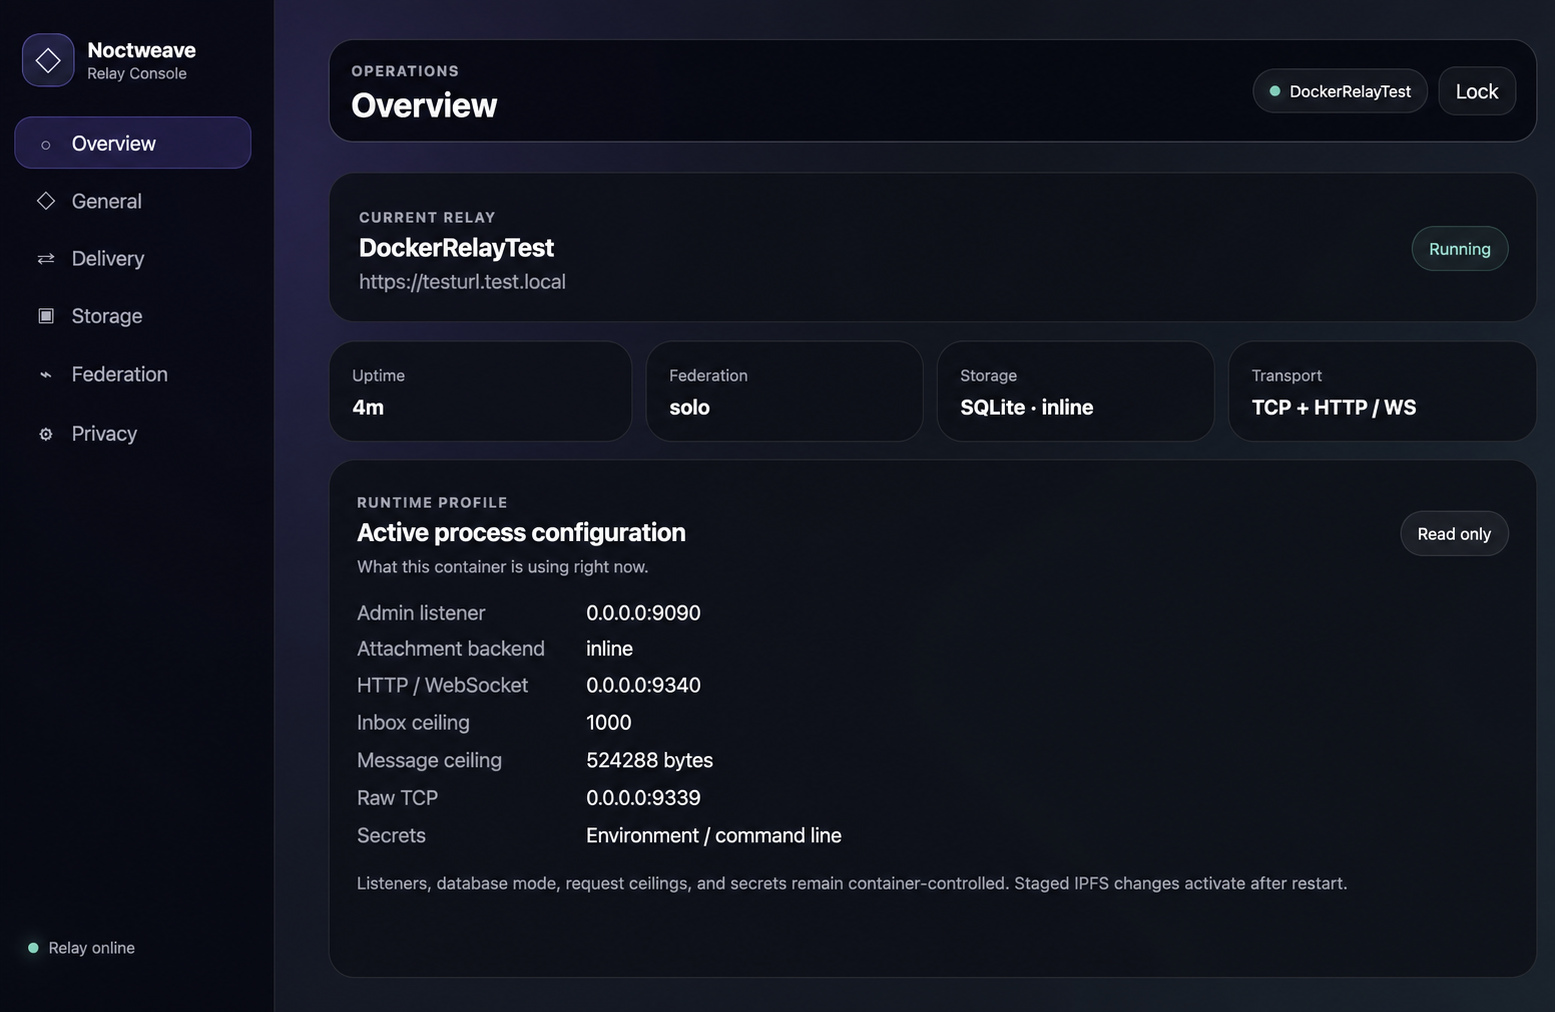
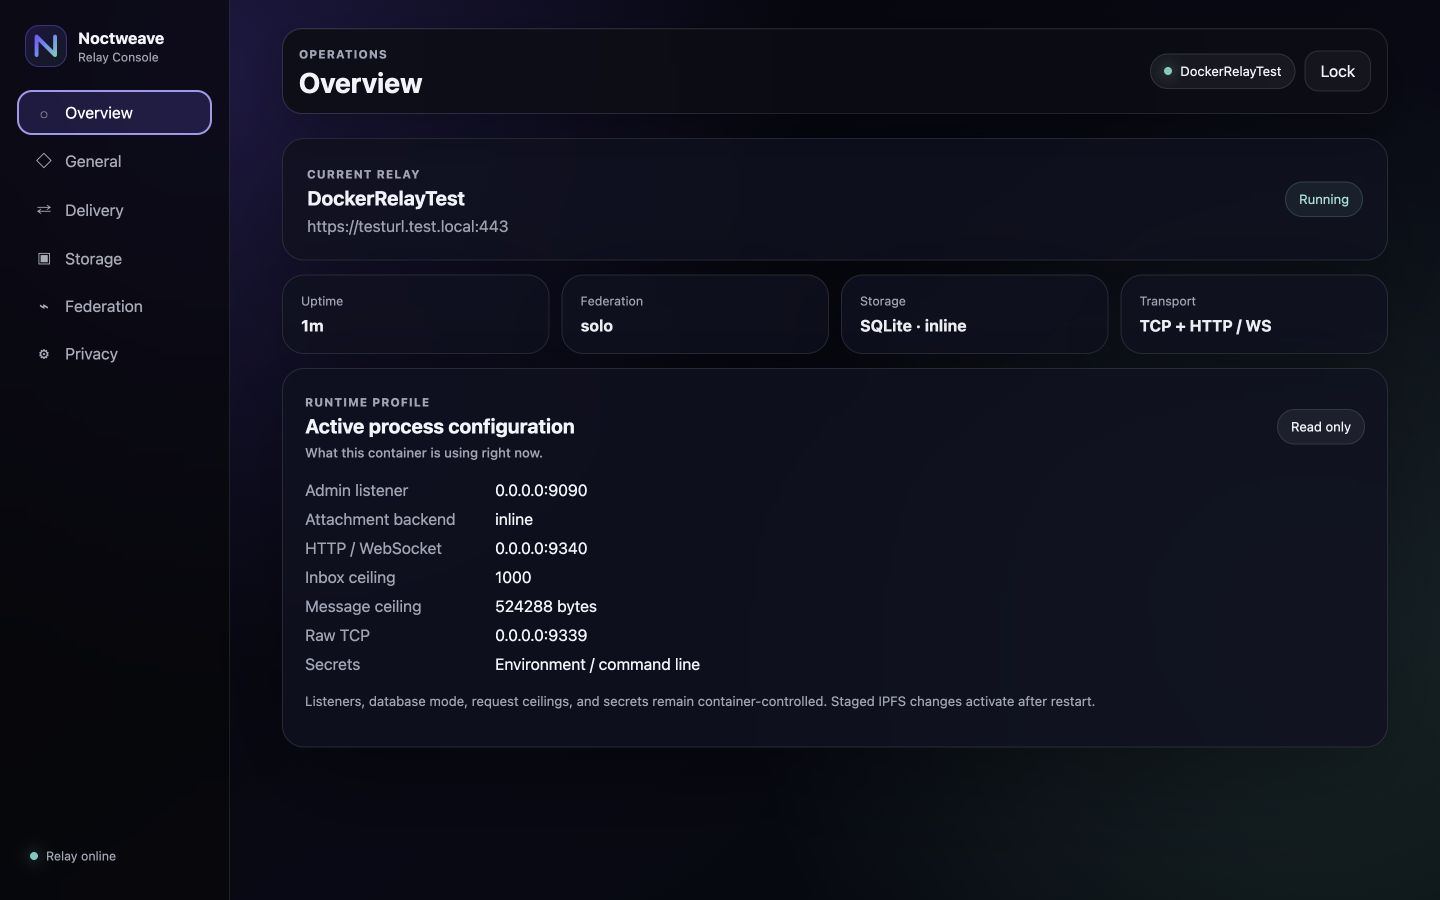
Refine branded web surfaces and refresh screenshots

diff --git a/NoctweaveJS/client/styles.css b/NoctweaveJS/client/styles.css
@@ -94,6 +94,8 @@ nav button b { min-width: 22px; height: 22px; margin-left: auto; padding: 0 6px;
 .content { min-width: 0; display: flex; flex-direction: column; overflow: hidden; }
 .topbar { min-height: 116px; flex: 0 0 auto; display: flex; align-items: center; justify-content: space-between; gap: 20px; padding: 24px clamp(24px, 4vw, 62px); border-bottom: 1px solid rgba(255,255,255,.055); background: linear-gradient(90deg, rgba(49,42,91,.36), rgba(28,41,50,.32)); backdrop-filter: blur(20px); }
 .topActions { display: flex; align-items: center; gap: 11px; }
+.topbarIdentity { display: flex; align-items: center; gap: 11px; }
+.mobileBrand { display: none; width: 36px; height: 36px; padding: 6px; border: 1px solid rgba(123,97,255,.32); border-radius: 11px; background: rgba(123,97,255,.08); }
 .identityPill { display: flex; align-items: center; gap: 9px; padding: 10px 15px; border: 1px solid var(--line); border-radius: 999px; background: rgba(255,255,255,.045); }
 .view { display: none; min-height: 0; flex: 1; overflow: auto; padding: 32px clamp(22px, 4vw, 62px) 46px; }
 .view.active { display: block; animation: appear .18s ease; }
@@ -142,7 +144,8 @@ nav button b { min-width: 22px; height: 22px; margin-left: auto; padding: 0 6px;
 .chatWelcome strong { color: var(--text); }
 .emptyState { height: 100%; min-height: 340px; display: grid; place-content: center; justify-items: center; text-align: center; padding: 30px; }
 .emptyState p { max-width: 440px; color: var(--muted); }
-.emptyIcon { margin-bottom: 12px; color: #9f92ff; font-size: 2.4rem; }
+.emptyIcon { width: 54px; height: 54px; margin-bottom: 14px; padding: 10px; border: 1px solid rgba(123,97,255,.28); border-radius: 17px; background: rgba(123,97,255,.08); }
+.emptyIcon img { width: 100%; height: 100%; display: block; }
 
 .sectionCard, .identityHero, .metricGrid article { border: 1px solid var(--line); border-radius: 22px; background: var(--panel); box-shadow: 0 18px 50px rgba(0,0,0,.12); backdrop-filter: blur(18px); }
 .sectionCard { padding: clamp(20px, 3vw, 30px); margin-bottom: 22px; }
@@ -222,6 +225,7 @@ dialog form { padding: 27px; }
   .content { grid-row: 1; }
   .topbar { min-height: 84px; padding: max(15px, env(safe-area-inset-top)) 16px 12px; }
   .topbar h2 { font-size: 1.45rem; }
+  .mobileBrand { display: block; }
   .identityPill { display: none; }
   .view { padding: 18px 14px 30px; }
   .view[data-view-panel="chats"] { padding: 0; }

diff --git a/NoctweaveJS/test/browser-client-shell.test.js b/NoctweaveJS/test/browser-client-shell.test.js
@@ -39,3 +39,9 @@ test("browser surfaces package the canonical Noctweave mark", async () => {
   assert.match(clientMark, /#5B9CFA/);
   assert.match(clientMark, /#3DD5C5/);
 });
+
+test("development server serves SVG branding with a non-sniffed image type", async () => {
+  const server = await readFile(new URL("../examples/browser-client/server.js", import.meta.url), "utf8");
+  assert.match(server, /"\.svg": "image\/svg\+xml"/);
+  assert.match(server, /"x-content-type-options": "nosniff"/);
+});

diff --git a/NoctweaveJS/client/index.html b/NoctweaveJS/client/index.html
@@ -86,7 +86,7 @@
     </aside>
 
     <section class="content">
-      <header class="topbar"><div><span class="eyebrow" id="viewEyebrow">Messages</span><h2 id="viewTitle">Chats</h2></div><div class="topActions"><button id="syncNow" class="iconButton" title="Fetch messages" aria-label="Fetch messages">↻</button><div class="identityPill"><span class="onlineDot"></span><span id="headerIdentity"></span></div></div></header>
+      <header class="topbar"><div class="topbarIdentity"><img class="mobileBrand" src="./assets/noctweave-mark.svg" alt=""><div><span class="eyebrow" id="viewEyebrow">Messages</span><h2 id="viewTitle">Chats</h2></div></div><div class="topActions"><button id="syncNow" class="iconButton" title="Fetch messages" aria-label="Fetch messages">↻</button><div class="identityPill"><span class="onlineDot"></span><span id="headerIdentity"></span></div></div></header>
 
       <section class="view active" data-view-panel="chats">
         <div class="messenger">
@@ -96,7 +96,7 @@
             <div id="noConversations" class="compactEmpty"><strong>No conversations</strong><span>Add a verified contact to begin.</span><button data-open-view="contacts">Add contact</button></div>
           </aside>
           <section class="chatPane" id="chatPane">
-            <div id="chatPlaceholder" class="emptyState"><div class="emptyIcon">◌</div><h3>Your conversations</h3><p>Select a contact, or add one using a signed Noctweave contact code.</p><button data-open-view="contacts">Open Contact Book</button></div>
+            <div id="chatPlaceholder" class="emptyState"><div class="emptyIcon"><img src="./assets/noctweave-mark.svg" alt=""></div><h3>Your conversations</h3><p>Select a contact, or add one using a signed Noctweave contact code.</p><button data-open-view="contacts">Open Contact Book</button></div>
             <div id="activeChat" class="activeChat" hidden>
               <header class="chatHeader"><button id="closeMobileChat" class="iconButton mobileChatBack" title="Back to chats" aria-label="Back to chats">‹</button><div><h3 id="chatContactName"></h3><span id="chatContactStatus"></span></div><button id="clearConversation" class="iconButton danger" title="Clear local history" aria-label="Clear local history">⌫</button></header>
               <div id="messageList" class="messageList" aria-live="polite"></div>

diff --git a/NoctweaveRelayServer/Sources/NoctweaveRelayServer/OperatorWebUI.swift b/NoctweaveRelayServer/Sources/NoctweaveRelayServer/OperatorWebUI.swift
@@ -106,7 +106,7 @@ enum OperatorWebUI {
     .badgeStack{display:flex;align-items:flex-end;gap:8px;flex-direction:column}.warningBadge{color:#ffd191;border-color:rgba(255,190,92,.25);background:rgba(255,190,92,.08)}code{color:#c8c1ff;background:rgba(125,109,255,.1);border-radius:6px;padding:2px 6px}.ipfsOnly{display:grid;grid-template-columns:1fr 1fr;gap:14px;margin-bottom:16px}.switchRow{display:flex;gap:24px;flex-wrap:wrap}.splitCards{display:grid;grid-template-columns:1fr 1fr;gap:16px}.splitCards>div{display:grid;align-content:start;gap:15px;border:1px solid var(--line);border-radius:17px;background:rgba(255,255,255,.025);padding:18px}.disabled{opacity:.42;pointer-events:none;filter:saturate(.7)}
     .sectionIntro{display:flex;align-items:flex-end;justify-content:space-between;gap:28px;padding:2px 3px 7px}.sectionIntro h3{font-size:1.38rem;margin:5px 0 0}.sectionIntro p{max-width:520px;margin:0;color:var(--muted);font-size:.88rem;line-height:1.55;text-align:right}.cardDescription{margin:6px 0 0;color:var(--muted);font-size:.82rem;font-weight:500;line-height:1.45}.cardDescription strong{color:#d8dbe3}.compactCard .cardHeader{margin-bottom:8px}.sectionCard>label{display:block;margin-top:16px}.sectionCard>label:first-child{margin-top:0}.fieldGrid label,.ipfsOnly label,.splitCards label{display:block}.fieldGrid{align-items:start}.switchRow .switch{margin-top:2px}.topbar{position:sticky;z-index:4;top:14px;width:100%;padding:14px 16px;border:1px solid rgba(255,255,255,.11);border-radius:20px;background:rgba(24,28,36,.86);background-clip:padding-box;-webkit-backdrop-filter:blur(22px);backdrop-filter:blur(22px);box-shadow:0 16px 46px rgba(0,0,0,.24),inset 0 1px 0 rgba(255,255,255,.035)}button:focus-visible,input:focus-visible,textarea:focus-visible,select:focus-visible{outline:2px solid rgba(180,171,255,.92);outline-offset:2px}.rail nav button:focus-visible{outline-offset:-1px}.saveBar button{white-space:nowrap}.toast{max-width:min(420px,calc(100vw - 32px));line-height:1.4}
     html,body{max-width:100%;overflow-x:hidden}.app,.content,.topbar,.topbar>div,.actions,.view,.sectionIntro,.sectionIntro>div,.sectionCard,.heroCard,.heroCard>div,.cardHeader,.cardHeader>div,.metricGrid article,.fieldGrid>*{min-width:0}.topbar h2,.heroCard h3,.heroCard p,.cardHeader h3,.cardDescription,.sectionIntro h3,.sectionIntro p{overflow-wrap:anywhere}.actions{flex:0 1 auto}.statusPill{max-width:min(360px,42vw);min-width:0}.statusPill>span:last-child{min-width:0;white-space:nowrap;overflow:hidden;text-overflow:ellipsis}.badge{max-width:100%;text-align:center;justify-content:center;white-space:normal}.heroCard>div:first-child{max-width:calc(100% - 150px)}input:not([type="checkbox"]),select{height:46px;min-height:46px;padding-top:0;padding-bottom:0}textarea{min-height:92px}.switch{position:relative;display:inline-flex;min-height:30px;max-width:100%;align-items:center;gap:10px;color:#c9cdd7;cursor:pointer;user-select:none;line-height:1.3}.switch input{position:absolute!important;width:1px!important;height:1px!important;margin:0!important;opacity:0;clip-path:inset(50%);pointer-events:none}.switch>span{display:block;flex:0 0 38px;width:38px;height:22px;border-radius:999px;background:#3b4050;position:relative;transition:background .16s ease,box-shadow .16s ease}.switch>span:after{content:"";position:absolute;width:16px;height:16px;left:3px;top:3px;border-radius:50%;background:#fff;box-shadow:0 1px 4px rgba(0,0,0,.35);transition:transform .16s ease}.switch input:checked+span{background:#7567e8;box-shadow:0 0 0 1px rgba(179,168,255,.26),0 0 18px rgba(117,103,232,.22)}.switch input:checked+span:after{transform:translateX(16px)}.switch input:focus-visible+span{outline:2px solid rgba(180,171,255,.92);outline-offset:3px}.switch:hover>span{box-shadow:0 0 0 1px rgba(255,255,255,.14)}.conditionalDisabled{opacity:.4;filter:saturate(.65);pointer-events:none}
-    @media(max-width:820px){.app{grid-template-columns:1fr;padding-bottom:82px}.rail{position:fixed;z-index:10;inset:auto 10px 10px;height:auto;border:1px solid var(--line);border-radius:20px;padding:7px;background:rgba(24,28,36,.94)}.brand,.railStatus{display:none}.rail nav{display:flex;gap:3px;overflow-x:auto;scrollbar-width:none}.rail nav::-webkit-scrollbar{display:none}.rail nav button{flex:1 0 72px;display:grid;justify-items:center;gap:2px;padding:8px 4px;font-size:.6rem}.content{padding:10px 14px 118px}.topbar{top:10px;align-items:flex-start;padding:13px 14px;margin-bottom:20px;border-radius:18px}.statusPill{display:none}.metricGrid,.fieldGrid,.fieldGrid.three,.ipfsOnly,.splitCards{grid-template-columns:1fr}.metricGrid{grid-template-columns:repeat(2,minmax(0,1fr))}.sectionIntro{display:block;padding:2px 3px 4px}.sectionIntro p{text-align:left;margin-top:8px}.sectionCard{padding:18px;border-radius:19px}.cardHeader{align-items:flex-start}.saveBar{left:14px;right:14px;bottom:82px;padding:10px}.saveBar div{display:none}.details{grid-template-columns:1fr;gap:4px}.details dd{margin-bottom:8px}.heroCard{align-items:flex-start}.badgeStack{align-items:flex-end}}
+    @media(max-width:820px){.app{grid-template-columns:1fr;padding-bottom:82px}.rail{position:fixed;z-index:10;inset:auto 10px 10px;height:auto;border:1px solid var(--line);border-radius:20px;padding:7px;background:rgba(24,28,36,.94)}.brand,.railStatus{display:none}.rail nav{display:flex;gap:2px;overflow:hidden}.rail nav button{flex:1 1 0;min-width:0;display:grid;justify-items:center;gap:2px;padding:8px 2px;font-size:.56rem}.content{padding:10px 14px 118px}.topbar{top:10px;align-items:flex-start;padding:13px 14px;margin-bottom:20px;border-radius:18px}.statusPill{display:none}.metricGrid,.fieldGrid,.fieldGrid.three,.ipfsOnly,.splitCards{grid-template-columns:1fr}.metricGrid{grid-template-columns:repeat(2,minmax(0,1fr))}.sectionIntro{display:block;padding:2px 3px 4px}.sectionIntro p{text-align:left;margin-top:8px}.sectionCard{padding:18px;border-radius:19px}.cardHeader{align-items:flex-start}.saveBar{left:14px;right:14px;bottom:82px;padding:10px}.saveBar div{display:none}.details{grid-template-columns:1fr;gap:4px}.details dd{margin-bottom:8px}.heroCard{align-items:flex-start}.badgeStack{align-items:flex-end}}
     @media(max-width:560px){.topbar,.heroCard,.cardHeader{flex-wrap:wrap}.topbar>div:first-child,.heroCard>div:first-child,.cardHeader>div:first-child{max-width:100%;width:100%}.topbar .actions{width:100%;justify-content:flex-end}.heroCard>div:first-child{max-width:100%}.badgeStack{width:100%;align-items:flex-start;flex-direction:row;flex-wrap:wrap}.cardHeader>.switch,.cardHeader>.badge{margin-top:2px}.metricGrid{grid-template-columns:1fr}.saveBar{justify-content:stretch}.saveBar button{flex:1;padding-left:8px;padding-right:8px}}
     .ambient{background:radial-gradient(circle at 14% 8%,rgba(123,97,255,.23),transparent 38rem),radial-gradient(circle at 92% 72%,rgba(61,213,197,.15),transparent 36rem),linear-gradient(145deg,#080b16,#121625 58%,#08171b)}.brandMark{border-color:rgba(123,97,255,.4);background:linear-gradient(145deg,rgba(123,97,255,.18),rgba(61,213,197,.07));font-size:0}.brandMark .brandLogo{display:block;width:74%;height:74%}.primary{background:linear-gradient(135deg,#7b61ff,#6851dd)}.onlineDot{background:#3dd5c5;box-shadow:0 0 14px rgba(61,213,197,.65)}
     @media(prefers-reduced-motion:reduce){*,*:before,*:after{scroll-behavior:auto!important;animation-duration:.001ms!important;transition-duration:.001ms!important}}

diff --git a/NoctweaveJS/examples/browser-client/server.js b/NoctweaveJS/examples/browser-client/server.js
@@ -18,6 +18,7 @@ const mimeTypes = {
   ".html": "text/html; charset=utf-8",
   ".js": "text/javascript; charset=utf-8",
   ".css": "text/css; charset=utf-8",
+  ".svg": "image/svg+xml",
   ".wasm": "application/wasm",
   ".json": "application/json; charset=utf-8"
 };

diff --git a/NoctweaveRelayServer/Tests/NoctweaveRelayServerTests/OperatorWebUITests.swift b/NoctweaveRelayServer/Tests/NoctweaveRelayServerTests/OperatorWebUITests.swift
@@ -25,6 +25,7 @@ final class OperatorWebUITests: XCTestCase {
         XCTAssertTrue(OperatorWebUI.css.contains("prefers-reduced-motion"))
         XCTAssertTrue(OperatorWebUI.css.contains("input:not([type=\"checkbox\"]),select{height:46px"))
         XCTAssertTrue(OperatorWebUI.css.contains("overflow-x:hidden"))
+        XCTAssertTrue(OperatorWebUI.css.contains("flex:1 1 0;min-width:0"))
     }
 
     func testOperatorTokenAuthenticatorRequiresSingleBearerToken() {